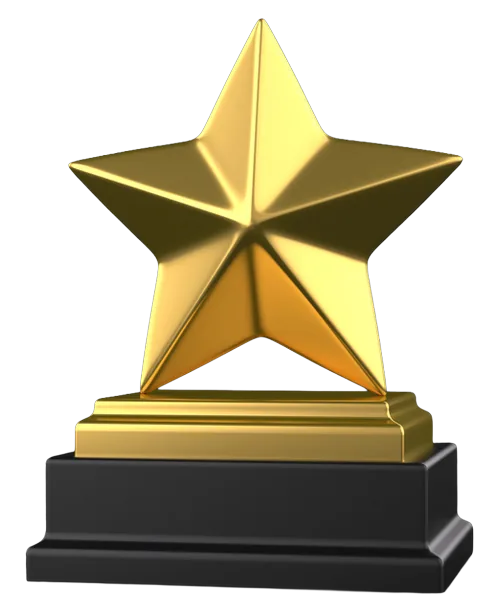
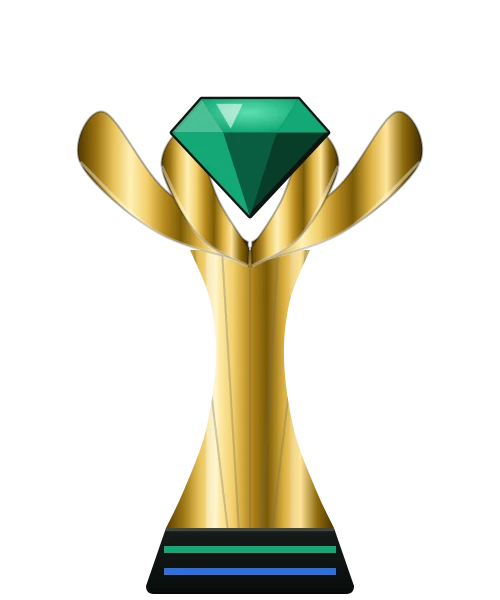
Taças originais do A JOIA no lugar das fotos de banco de imagens
- Sete taças desenhadas em SVG, com a gema da marca como assinatura das maiores; nenhuma imita troféu real
- Fontes em arte/tacas/fonte e gerador em ferramentas/gerar-tacas.py
- CREDITOS e CHANGELOG atualizados

Claude-Session: https://claude.ai/code/session_01DzC1iPZRvQBDzWEqQxLNgq

diff --git a/trofeus.jsx b/trofeus.jsx
@@ -131,8 +131,9 @@ const DESENHOS = {
 
 const METAL_POR_TIPO = { liga: "ouro", continental: "ouro", mundial: "ouro", copaMundo: "ouro", continentalSelecao: "ouro", copa: "prata", segunda: "bronze" };
 
-/* Fotos das taças (Adobe Stock, recortadas no Photoshop). O desenho
-   vetorial acima continua como reserva caso a imagem não carregue. */
+/* Taças originais do A JOIA: desenhadas em SVG (arte/tacas/fonte, gerador em
+   ferramentas/gerar-tacas.py) e exportadas em WebP. Nenhuma reproduz troféu real.
+   O desenho vetorial acima continua como reserva caso a imagem não carregue. */
 import liga from "./arte/tacas/liga.webp";
 import copa from "./arte/tacas/copa.webp";
 import continental from "./arte/tacas/continental.webp";

diff --git a/ferramentas/gerar-tacas.py b/ferramentas/gerar-tacas.py
@@ -1,0 +1,241 @@
+"""Taças originais do A JOIA, desenhadas em SVG e renderizadas para WebP 500x600.
+Nenhuma reproduz troféu real: silhuetas próprias, com a gema da marca como assinatura."""
+import math, os, sys
+import cairosvg
+from PIL import Image
+
+OUT = sys.argv[1]
+os.makedirs(OUT, exist_ok=True)
+W, H, CX, BASE = 500, 600, 250, 594
+
+METAIS = {
+    "ouro":   ["#5A3F00", "#9C7414", "#E8C35A", "#FFF0B5", "#F2CF6A", "#B88A1E", "#7A5A06", "#D9AE3E", "#FFE49A", "#8E6A0C", "#4A3300"],
+    "prata":  ["#3A3F44", "#7D858D", "#C9CFD6", "#FFFFFF", "#DDE2E8", "#9AA2AA", "#5F666D", "#B9C0C8", "#F2F5F8", "#7A8188", "#2F3438"],
+    "bronze": ["#3A1E0A", "#7E4620", "#C9824D", "#FFD2A8", "#E39E68", "#A8622F", "#6B3A18", "#C27A44", "#F0B88A", "#7A4420", "#2E1708"],
+}
+GEMA = {"esmeralda": ("#0B5E42", "#12A876", "#5FE0B0"), "safira": ("#173F8F", "#2E6FE0", "#9CC0FF"), "rubi": ("#7A1420", "#C9303F", "#FF9AA5")}
+
+
+def grad(id_, metal, x0, x1):
+    cs = METAIS[metal]
+    st = "".join(f'<stop offset="{i/(len(cs)-1):.3f}" stop-color="{c}"/>' for i, c in enumerate(cs))
+    return f'<linearGradient id="{id_}" gradientUnits="userSpaceOnUse" x1="{x0}" y1="0" x2="{x1}" y2="0">{st}</linearGradient>'
+
+
+def vgrad(id_, cores):
+    st = "".join(f'<stop offset="{o}" stop-color="{c}"/>' for o, c in cores)
+    return f'<linearGradient id="{id_}" x1="0" y1="0" x2="0" y2="1">{st}</linearGradient>'
+
+
+def suave(pts):
+    """caminho suave (Catmull-Rom -> Bézier) passando pelos pontos"""
+    d = f"M{pts[0][0]:.1f},{pts[0][1]:.1f}"
+    for i in range(len(pts) - 1):
+        p0 = pts[i - 1] if i > 0 else pts[i]
+        p1, p2 = pts[i], pts[i + 1]
+        p3 = pts[i + 2] if i + 2 < len(pts) else p2
+        c1 = (p1[0] + (p2[0] - p0[0]) / 6, p1[1] + (p2[1] - p0[1]) / 6)
+        c2 = (p2[0] - (p3[0] - p1[0]) / 6, p2[1] - (p3[1] - p1[1]) / 6)
+        d += f" C{c1[0]:.1f},{c1[1]:.1f} {c2[0]:.1f},{c2[1]:.1f} {p2[0]:.1f},{p2[1]:.1f}"
+    return d
+
+
+def torneado(perfil):
+    """silhueta simétrica a partir do perfil direito [(meia_largura, y), ...] de cima para baixo"""
+    dir_ = [(CX + r, y) for r, y in perfil]
+    esq = [(CX - r, y) for r, y in reversed(perfil)]
+    return suave(dir_) + " L" + suave(esq)[1:] + " Z"
+
+
+def corpo(id_, metal, perfil, extra=""):
+    larg = max(r for r, _ in perfil)
+    y0, y1 = perfil[0][1], perfil[-1][1]
+    d = torneado(perfil)
+    return (f'<defs>{grad(id_, metal, CX - larg, CX + larg)}<clipPath id="c{id_}"><path d="{d}"/></clipPath></defs>'
+            f'<path d="{d}" fill="url(#{id_})"/>'
+            # brilho especular vertical e sombra de volume
+            f'<g clip-path="url(#c{id_})"><rect x="{CX - larg * 0.52}" y="{y0}" width="{larg * 0.13}" height="{y1 - y0}" fill="#FFFFFF" opacity=".38"/>'
+            f'<rect x="{CX + larg * 0.48}" y="{y0}" width="{larg * 0.08}" height="{y1 - y0}" fill="#FFFFFF" opacity=".16"/>{extra}</g>')
+
+
+def borda(y, r, metal, id_, alt=10):
+    return (f'<defs>{grad(id_, metal, CX - r, CX + r)}</defs>'
+            f'<ellipse cx="{CX}" cy="{y}" rx="{r}" ry="{alt}" fill="url(#{id_})"/>'
+            f'<ellipse cx="{CX}" cy="{y - 1}" rx="{r * 0.92}" ry="{alt * 0.55}" fill="#000" opacity=".35"/>')
+
+
+def base_preta(topo, larg, alt, metal, placa=True, tom="#121816"):
+    y = BASE - alt
+    s = (f'<defs>{vgrad("bp", [(0, "#2C3431"), (.08, "#141A18"), (.9, "#0A0E0C"), (1, "#050706")])}'
+         f'{grad("bpl", "prata", CX - larg, CX + larg)}</defs>'
+         f'<path d="M{CX - topo},{y} L{CX + topo},{y} L{CX + larg},{BASE - 8} Q{CX + larg},{BASE} {CX + larg - 8},{BASE} L{CX - larg + 8},{BASE} Q{CX - larg},{BASE} {CX - larg},{BASE - 8} Z" fill="url(#bp)"/>'
+         f'<rect x="{CX - topo}" y="{y}" width="{topo * 2}" height="3" fill="#3E4744"/>')
+    if placa:
+        s += (f'<defs>{grad("plc", metal, CX - topo * 0.6, CX + topo * 0.6)}</defs>'
+              f'<rect x="{CX - topo * 0.55}" y="{y + alt * 0.32}" width="{topo * 1.1}" height="{alt * 0.34}" rx="3" fill="url(#plc)"/>'
+              f'<rect x="{CX - topo * 0.55}" y="{y + alt * 0.32}" width="{topo * 1.1}" height="{alt * 0.34}" rx="3" fill="none" stroke="#000" stroke-opacity=".35"/>')
+    return s
+
+
+def degraus(y_topo, larguras, metal, alt=16, pref="dg"):
+    """pedestal em degraus metálicos (de cima para baixo)"""
+    s, y = "", y_topo
+    for i, r in enumerate(larguras):
+        s += f'<defs>{grad(f"{pref}{i}", metal, CX - r, CX + r)}</defs>'
+        s += f'<rect x="{CX - r}" y="{y}" width="{r * 2}" height="{alt}" rx="4" fill="url(#{pref}{i})"/>'
+        s += f'<rect x="{CX - r}" y="{y}" width="{r * 2}" height="2.5" fill="#FFF" opacity=".35"/>'
+        y += alt
+    return s, y
+
+
+def alca(lado, pts, metal, id_, esp=13):
+    """alça como traço grosso metálico; lado=1 direita, -1 esquerda"""
+    P = [(CX + lado * x, y) for x, y in pts]
+    d = suave(P)
+    xs = [p[0] for p in P]
+    return (f'<defs>{grad(id_, metal, min(xs) - esp, max(xs) + esp)}</defs>'
+            f'<path d="{d}" fill="none" stroke="#000" stroke-opacity=".35" stroke-width="{esp + 3}" stroke-linecap="round"/>'
+            f'<path d="{d}" fill="none" stroke="url(#{id_})" stroke-width="{esp}" stroke-linecap="round"/>'
+            f'<path d="{d}" fill="none" stroke="#FFF" stroke-opacity=".45" stroke-width="{max(2, esp * 0.22)}" stroke-linecap="round" transform="translate({-lado * esp * 0.18},{-esp * 0.12})"/>')
+
+
+def gema(cx, cy, r, cor="esmeralda", id_="gm"):
+    """gema lapidada da marca, vista de frente"""
+    esc, med, luz = GEMA[cor]
+    t = r * 0.62  # meia largura da mesa
+    topo, cint, ponta = cy - r * 0.55, cy - r * 0.12, cy + r * 0.95
+    P = lambda x, y: f"{x:.1f},{y:.1f}"
+    s = f'<defs><radialGradient id="{id_}h" cx="50%" cy="40%" r="60%"><stop offset="0" stop-color="{luz}"/><stop offset="1" stop-color="{med}"/></radialGradient></defs>'
+    s += f'<polygon points="{P(cx - t, topo)} {P(cx + t, topo)} {P(cx + r, cint)} {P(cx, ponta)} {P(cx - r, cint)}" fill="{esc}" stroke="#0E1512" stroke-width="{r * 0.06:.1f}" stroke-linejoin="round"/>'
+    s += f'<polygon points="{P(cx - t, topo)} {P(cx + t, topo)} {P(cx + t * 0.55, cint)} {P(cx - t * 0.55, cint)}" fill="url(#{id_}h)"/>'
+    s += f'<polygon points="{P(cx - t, topo)} {P(cx - t * 0.55, cint)} {P(cx - r, cint)}" fill="{luz}" opacity=".75"/>'
+    s += f'<polygon points="{P(cx + t, topo)} {P(cx + r, cint)} {P(cx + t * 0.55, cint)}" fill="{med}"/>'
+    s += f'<polygon points="{P(cx - r, cint)} {P(cx - t * 0.55, cint)} {P(cx, ponta)}" fill="{med}"/>'
+    s += f'<polygon points="{P(cx - t * 0.55, cint)} {P(cx + t * 0.55, cint)} {P(cx, ponta)}" fill="{esc}" opacity=".9"/>'
+    s += f'<polygon points="{P(cx + t * 0.55, cint)} {P(cx + r, cint)} {P(cx, ponta)}" fill="#05140E" opacity=".45"/>'
+    s += f'<polygon points="{P(cx - t * 0.7, topo + r * 0.06)} {P(cx - t * 0.15, topo + r * 0.06)} {P(cx - t * 0.4, cint - r * 0.05)}" fill="#FFF" opacity=".55"/>'
+    return s
+
+
+def facetas(perfil, n=6, cor="#000", op=0.12):
+    """linhas de lapidação verticais no corpo"""
+    y0, y1 = perfil[0][1], perfil[-1][1]
+    larg = max(r for r, _ in perfil)
+    return "".join(f'<line x1="{CX + larg * k}" y1="{y0}" x2="{CX + larg * k * 0.4}" y2="{y1}" stroke="{cor}" stroke-opacity="{op}" stroke-width="2"/>'
+                   for k in [i / n * 2 - 1 for i in range(1, n)])
+
+
+def svg(conteudo):
+    return f'<svg xmlns="http://www.w3.org/2000/svg" viewBox="0 0 {W} {H}" width="{W}" height="{H}">{conteudo}</svg>'
+
+
+TACAS = {}
+
+def taca(metal, bojo, haste, pe, pref):
+    """taça em partes: bojo (perfil), haste com nó e pé alargado"""
+    s = ""
+    yb = bojo[-1][1]
+    (hy0, hy1, hr), (ky, kr) = haste
+    s += corpo(pref + "h", metal, [(hr, hy0), (hr * 0.9, (hy0 + hy1) / 2), (hr, hy1)])
+    s += corpo(pref + "p", metal, pe)
+    s += borda(pe[0][1], pe[0][0] + 4, metal, pref + "pb", 5)
+    s += f'<defs>{grad(pref + "k", metal, CX - kr, CX + kr)}</defs><ellipse cx="{CX}" cy="{ky}" rx="{kr}" ry="{kr * 0.55}" fill="url(#{pref}k)"/>'
+    s += f'<ellipse cx="{CX}" cy="{ky - kr * 0.18}" rx="{kr * 0.8}" ry="{kr * 0.16}" fill="#FFF" opacity=".35"/>'
+    s += corpo(pref + "b", metal, bojo)
+    s += borda(yb, bojo[-1][0] + 6, metal, pref + "cb", 6)
+    return s
+
+def folha(lado, pts, metal, id_):
+    P = [(CX + lado * x, y) for x, y in pts]
+    xs = [p[0] for p in P]
+    d = suave(P) + " Z"
+    return (f'<defs>{grad(id_, metal, min(xs), max(xs))}</defs><path d="{d}" fill="url(#{id_})" stroke="#000" stroke-opacity=".3" stroke-width="2"/>'
+            f'<path d="{suave(P[:3])}" fill="none" stroke="#FFF" stroke-opacity=".4" stroke-width="3"/>')
+
+# Liga nacional — taça clássica dourada, alças finas, gema esmeralda na frente, pedestal em degraus
+def liga():
+    s = base_preta(112, 128, 66, "ouro")
+    dg, _ = degraus(BASE - 66 - 32, [92, 104], "ouro", alt=16)
+    s += dg
+    for l in (1, -1): s += alca(l, [(136, 116), (196, 116), (212, 170), (178, 232), (104, 262)], "ouro", f"al{l}")
+    s += taca("ouro", [(148, 80), (144, 130), (126, 196), (92, 250), (40, 288), (26, 296)], ((300, 420, 16), (372, 30)), [(30, 420), (52, 446), (84, 496)], "t")
+    s += borda(80, 148, "ouro", "bd", 14)
+    s += gema(CX, 186, 44, "esmeralda", "g1")
+    return s
+
+# Copa nacional — cálice de prata largo e raso, alças baixas, base preta alta
+def copa():
+    s = base_preta(100, 116, 96, "prata")
+    for l in (1, -1): s += alca(l, [(156, 132), (218, 144), (222, 198), (174, 238)], "prata", f"a{l}", 15)
+    s += taca("prata", [(174, 100), (170, 146), (148, 200), (106, 244), (52, 270), (26, 278)], ((282, 420, 15), (350, 32)), [(28, 420), (48, 446), (86, 498)], "t")
+    s += borda(100, 174, "prata", "bd", 15)
+    s += f'<rect x="{CX - 158}" y="150" width="316" height="5" fill="#FFF" opacity=".25"/>'
+    return s
+
+# Segunda divisão — taça de bronze compacta, bojo lapidado
+def segunda():
+    s = base_preta(96, 110, 84, "bronze")
+    for l in (1, -1): s += alca(l, [(134, 172), (196, 176), (204, 236), (148, 290)], "bronze", f"a{l}", 14)
+    s += taca("bronze", [(146, 136), (144, 180), (126, 238), (88, 288), (36, 316), (22, 320)], ((322, 428, 13), (370, 26)), [(24, 428), (44, 452), (78, 510)], "t")
+    s += borda(136, 146, "bronze", "bd", 13)
+    s += f'<g opacity=".9">{facetas([(146, 140), (88, 300)], 7, "#000", .18)}</g>'
+    return s
+
+# Continental de clubes — vaso alto e esguio sem alças, corpo lapidado como gema, coroado por gema esmeralda
+def continental():
+    s = base_preta(96, 112, 70, "ouro")
+    dg, _ = degraus(BASE - 70 - 32, [78, 90], "ouro", alt=16, pref="dc")
+    s += dg
+    vaso = [(70, 124), (110, 146), (116, 182), (102, 250), (74, 320), (44, 376), (26, 412)]
+    s += corpo("pe", "ouro", [(26, 418), (34, 440), (52, 466), (66, 492)])
+    s += corpo("cp", "ouro", vaso, facetas(vaso, 8, "#000", .2) + facetas(vaso, 8, "#FFF", .12))
+    s += f'<defs>{grad("aro", "ouro", CX - 70, CX + 70)}</defs><rect x="{CX - 70}" y="108" width="140" height="18" rx="7" fill="url(#aro)"/>'
+    s += f'<defs>{grad("aro2", "ouro", CX - 36, CX + 36)}</defs><ellipse cx="{CX}" cy="418" rx="36" ry="9" fill="url(#aro2)"/>'
+    s += gema(CX, 70, 46, "esmeralda", "g1")
+    return s
+
+def coroa_com_gema(metal, cor, y_base, r_gema, larg):
+    s = ""
+    for l in (1, -1):
+        s += folha(l, [(4, y_base), (larg * 0.55, y_base - 30), (larg, y_base - 100), (larg * 0.86, y_base - 150), (larg * 0.5, y_base - 72), (2, y_base - 20)], metal, f"fo{l}")
+        s += folha(l, [(2, y_base + 4), (larg * 0.3, y_base - 26), (larg * 0.52, y_base - 96), (larg * 0.36, y_base - 132), (larg * 0.18, y_base - 60), (1, y_base - 14)], metal, f"fi{l}")
+    s += gema(CX, y_base - 120, r_gema, cor, "gm")
+    return s
+
+# Copa do Mundo — coluna dourada facetada abrindo em pétalas de metal que seguram uma grande gema
+def copaMundo():
+    s = base_preta(84, 104, 66, "ouro", placa=False)
+    for i, y in enumerate([BASE - 66 + 18, BASE - 66 + 40]):
+        s += f'<rect x="{CX - 86}" y="{y}" width="172" height="7" fill="{"#12A876" if i == 0 else "#2E6FE0"}"/>'
+    coluna = [(60, 250), (40, 300), (34, 360), (44, 430), (66, 490), (84, BASE - 66)]
+    s += corpo("cl", "ouro", coluna, facetas(coluna, 6, "#000", .22) + facetas(coluna, 6, "#FFF", .14))
+    s += coroa_com_gema("ouro", "esmeralda", 262, 78, 170)
+    return s
+
+# Mundial de clubes — a mesma família em prata, com gema safira
+def mundial():
+    s = base_preta(84, 104, 66, "prata", placa=False)
+    s += f'<rect x="{CX - 86}" y="{BASE - 66 + 28}" width="172" height="7" fill="#2E6FE0"/>'
+    coluna = [(56, 270), (38, 320), (32, 380), (42, 440), (64, 494), (84, BASE - 66)]
+    s += corpo("cl", "prata", coluna, facetas(coluna, 6, "#000", .22))
+    s += coroa_com_gema("prata", "safira", 282, 70, 150)
+    return s
+
+# Copa continental de seleções — taça dourada de bojo cônico lapidado, alças em asa, gema safira
+def continentalSelecao():
+    s = base_preta(100, 116, 72, "ouro")
+    dg, _ = degraus(BASE - 72 - 32, [80, 92], "ouro", alt=16, pref="ds")
+    s += dg
+    for l in (1, -1): s += alca(l, [(130, 104), (196, 78), (234, 114), (210, 180), (116, 220)], "ouro", f"a{l}", 13)
+    s += taca("ouro", [(146, 90), (136, 120), (104, 176), (62, 236), (26, 280)], ((284, 410, 14), (346, 28)), [(26, 410), (48, 436), (76, 490)], "t")
+    s += f'<g>{facetas([(146, 94), (62, 236)], 8, "#000", .22)}{facetas([(146, 94), (62, 236)], 8, "#FFF", .12)}</g>'
+    s += borda(90, 140, "ouro", "bd", 13)
+    s += gema(CX, 172, 40, "safira", "g1")
+    return s
+
+for nome, fn in [("liga", liga), ("copa", copa), ("segunda", segunda), ("continental", continental),
+                 ("copaMundo", copaMundo), ("mundial", mundial), ("continentalSelecao", continentalSelecao)]:
+    s = svg(fn())
+    open(f"{OUT}/{nome}.svg", "w").write(s)
+    cairosvg.svg2png(bytestring=s.encode(), write_to=f"{OUT}/{nome}.png", output_width=W, output_height=H)
+print("ok")

diff --git a/arte/CREDITOS.md b/arte/CREDITOS.md
@@ -22,20 +22,18 @@ A licença do Adobe Stock permite uso em projetos, mas não a redistribuição d
 | lesao.webp | 427520032 | The injured footballer lies on the pitch (recortada) | Lesão grave, eventos de lesão |
 | contrato.webp | 1193565407 | Close-Up of Hand Writing with Pen on Document in Low Light Setting | Negociação e assinatura de contrato |
 
-## Taças (recortadas com o Adobe Photoshop, fundo removido)
+## Taças
 
-| Arquivo | Adobe Stock ID | Título original | Competição no jogo |
+As sete taças (liga, copa, segunda divisão, continental, copa continental de seleções, Copa do Mundo e Mundial)
+são desenhos originais do A JOIA, feitos em SVG — fontes em `arte/tacas/fonte/` e gerador em
+`ferramentas/gerar-tacas.py`. Não reproduzem nenhum troféu real; a gema da marca é a assinatura das maiores.
+As fotos de taças do Adobe Stock usadas antes foram aposentadas.
+
+## Outras fotos
+
+| Arquivo | Adobe Stock ID | Título original | Uso no jogo |
 |---|---|---|---|
 | coletiva.webp | 1534097092 | Press conference concept with podium and multiple microphones | Coletiva de imprensa (Modo Rápido) |
-| tacas/liga.webp | 1734220943 | Isolated Gold award for success, prize for winning competition | Liga nacional |
-| tacas/copa.webp | 1849730582 | Isolated shiny silver trophy cup with handles | Copa nacional |
-| tacas/continental.webp | 551381312 | Isolated golden soccer trophy of football sport | Continental de clubes |
-| tacas/mundial.webp | 1847683082 | Isolated Star trophy with gold base | Mundial de Clubes |
-| tacas/copaMundo.webp | 387718989 | Gold star trophy isolated on black | Copa do Mundo |
-| tacas/continentalSelecao.webp | 298742334 | Golden cup isolated on white background (fundo removido no Photoshop) | Copa continental de seleções — substituiu a 605130756, em estilo cartoon |
-| tacas/segunda.webp | 1649183514 | A classic bronze trophy cup | Segunda divisão |
-
-Todas são taças genéricas de banco de imagens; nenhuma reproduz troféu oficial de competição real.
 
 ## Tratamento de cor
 

diff --git a/CHANGELOG.md b/CHANGELOG.md
@@ -35,9 +35,13 @@ Tudo que mudou desde a primeira versão publicada, organizado por bloco de traba
 
 ---
 
-## 🏆 Taça da copa continental de seleções em foto real
+## 🏆 Taças próprias do A JOIA
 
-- A taça da copa continental de seleções era a única em estilo cartoon. Foi trocada por uma foto real de taça dourada com base de mármore (Adobe Stock, licença gratuita, fundo removido no Photoshop), no mesmo formato das outras.
+- As sete taças do jogo agora são desenhos originais, no lugar das fotos de banco de imagens. Nenhuma imita troféu de competição real.
+- **Liga:** taça dourada clássica com uma gema esmeralda na frente. **Copa:** cálice de prata largo. **Segunda divisão:** taça de bronze lapidada.
+- **Continental de clubes:** vaso alto e facetado, coroado por uma gema esmeralda. **Copa continental de seleções:** taça de bojo cônico lapidado com gema safira.
+- **Copa do Mundo:** coluna dourada que se abre em pétalas de metal segurando uma grande gema esmeralda. **Mundial de clubes:** a mesma família em prata, com gema safira.
+- Os desenhos-fonte ficam em `arte/tacas/fonte/` e o gerador em `ferramentas/gerar-tacas.py`, para ajustes futuros.
 
 ---
 
